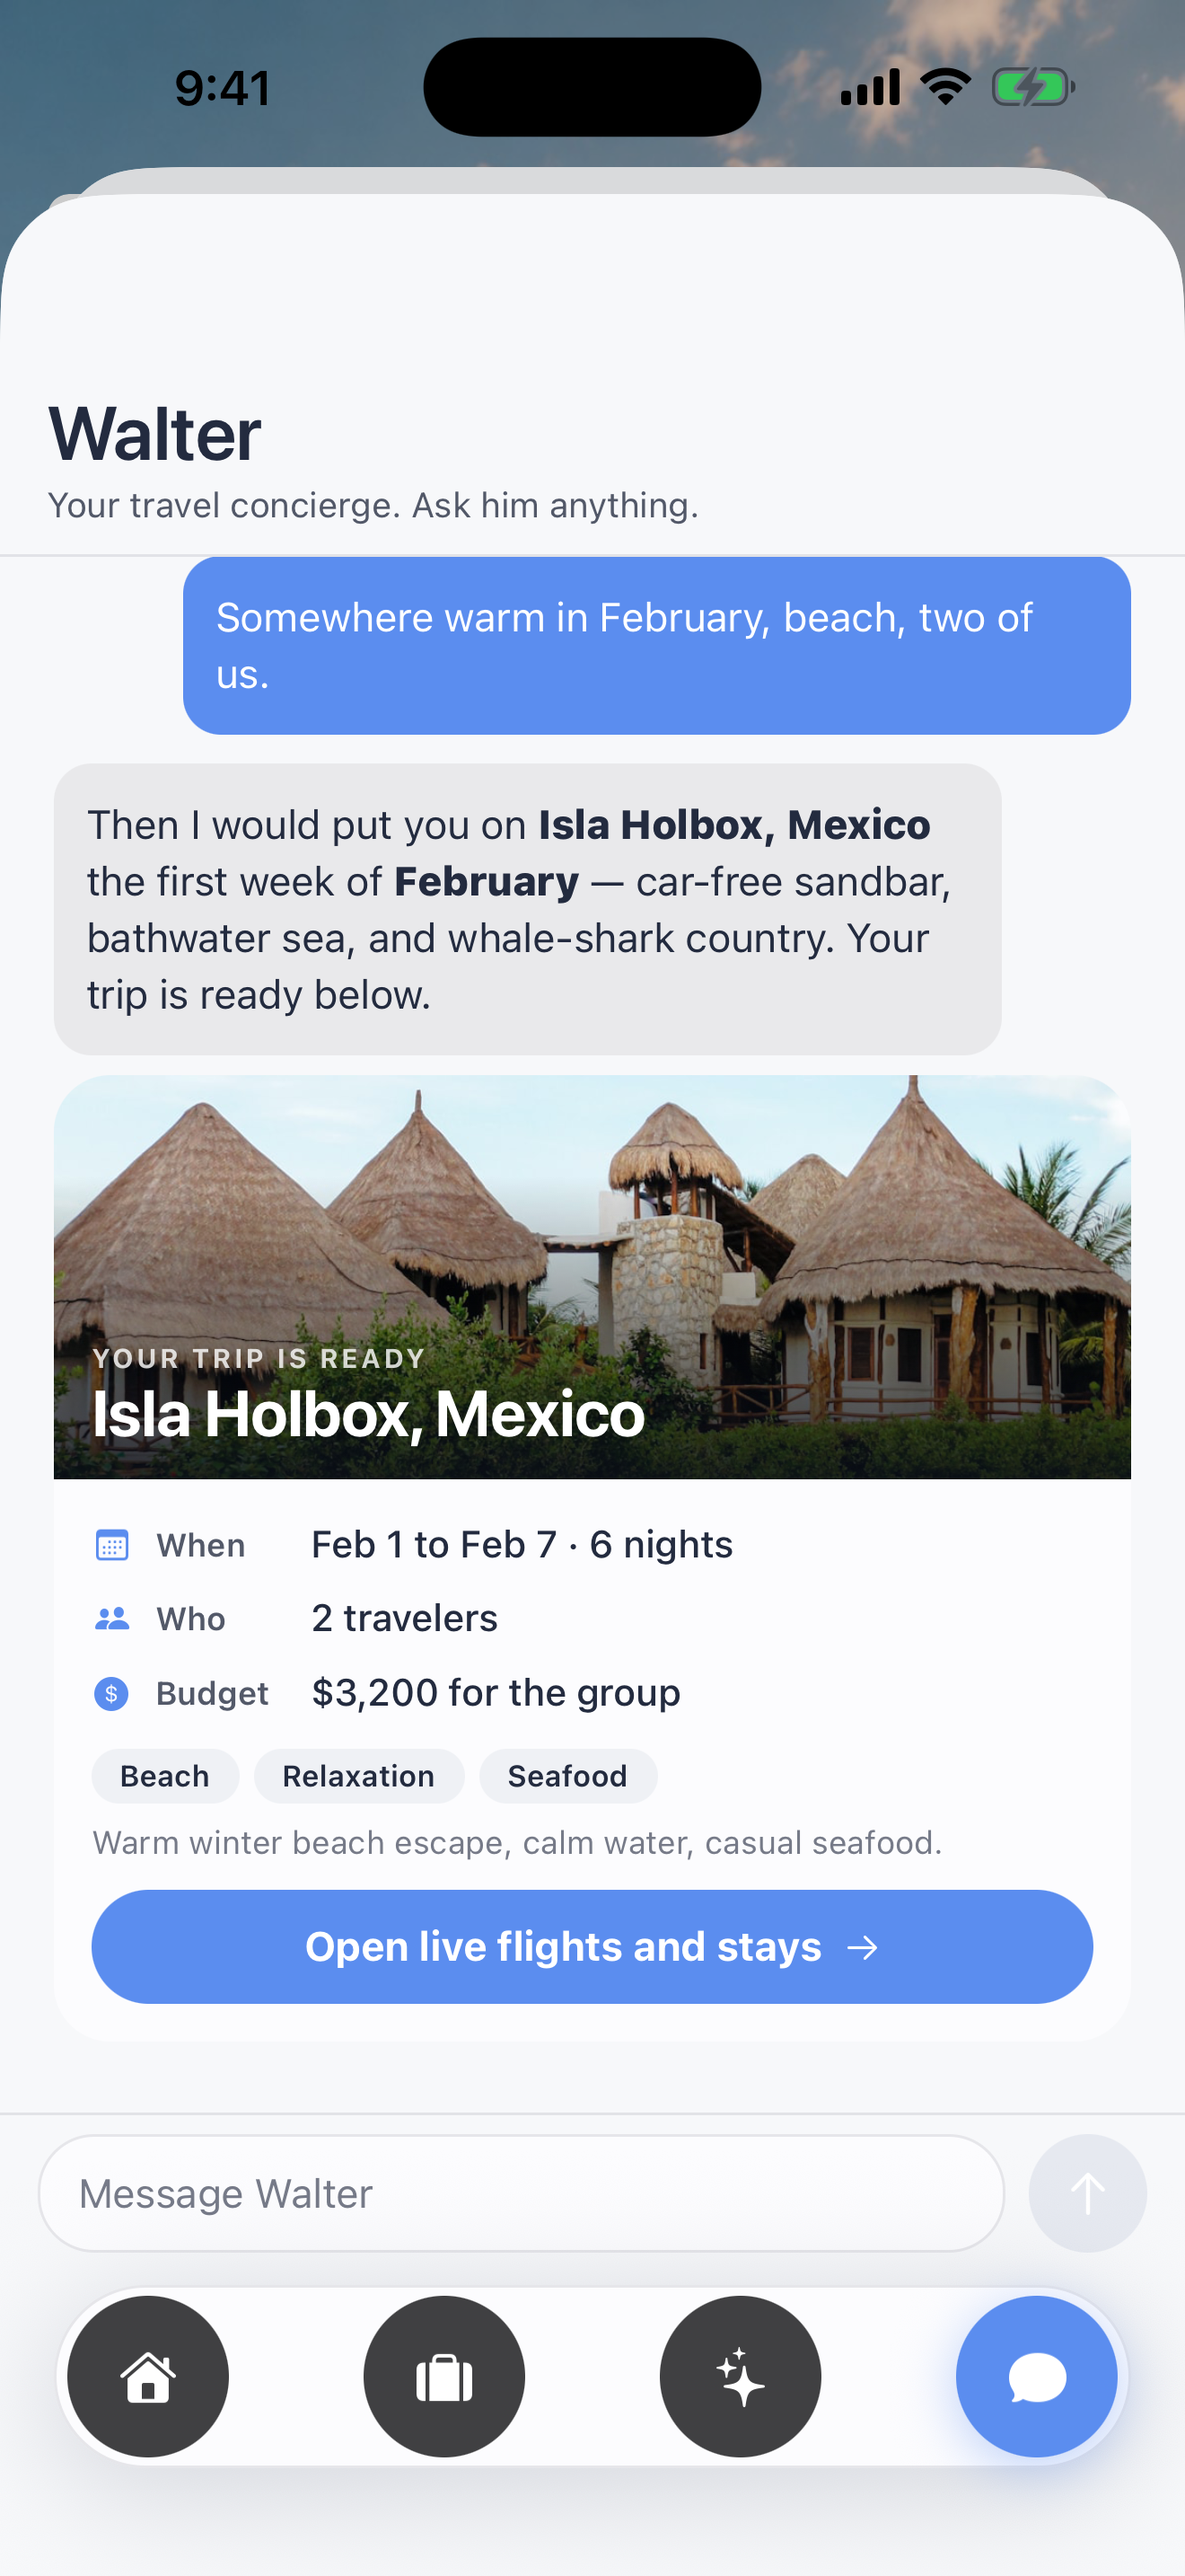
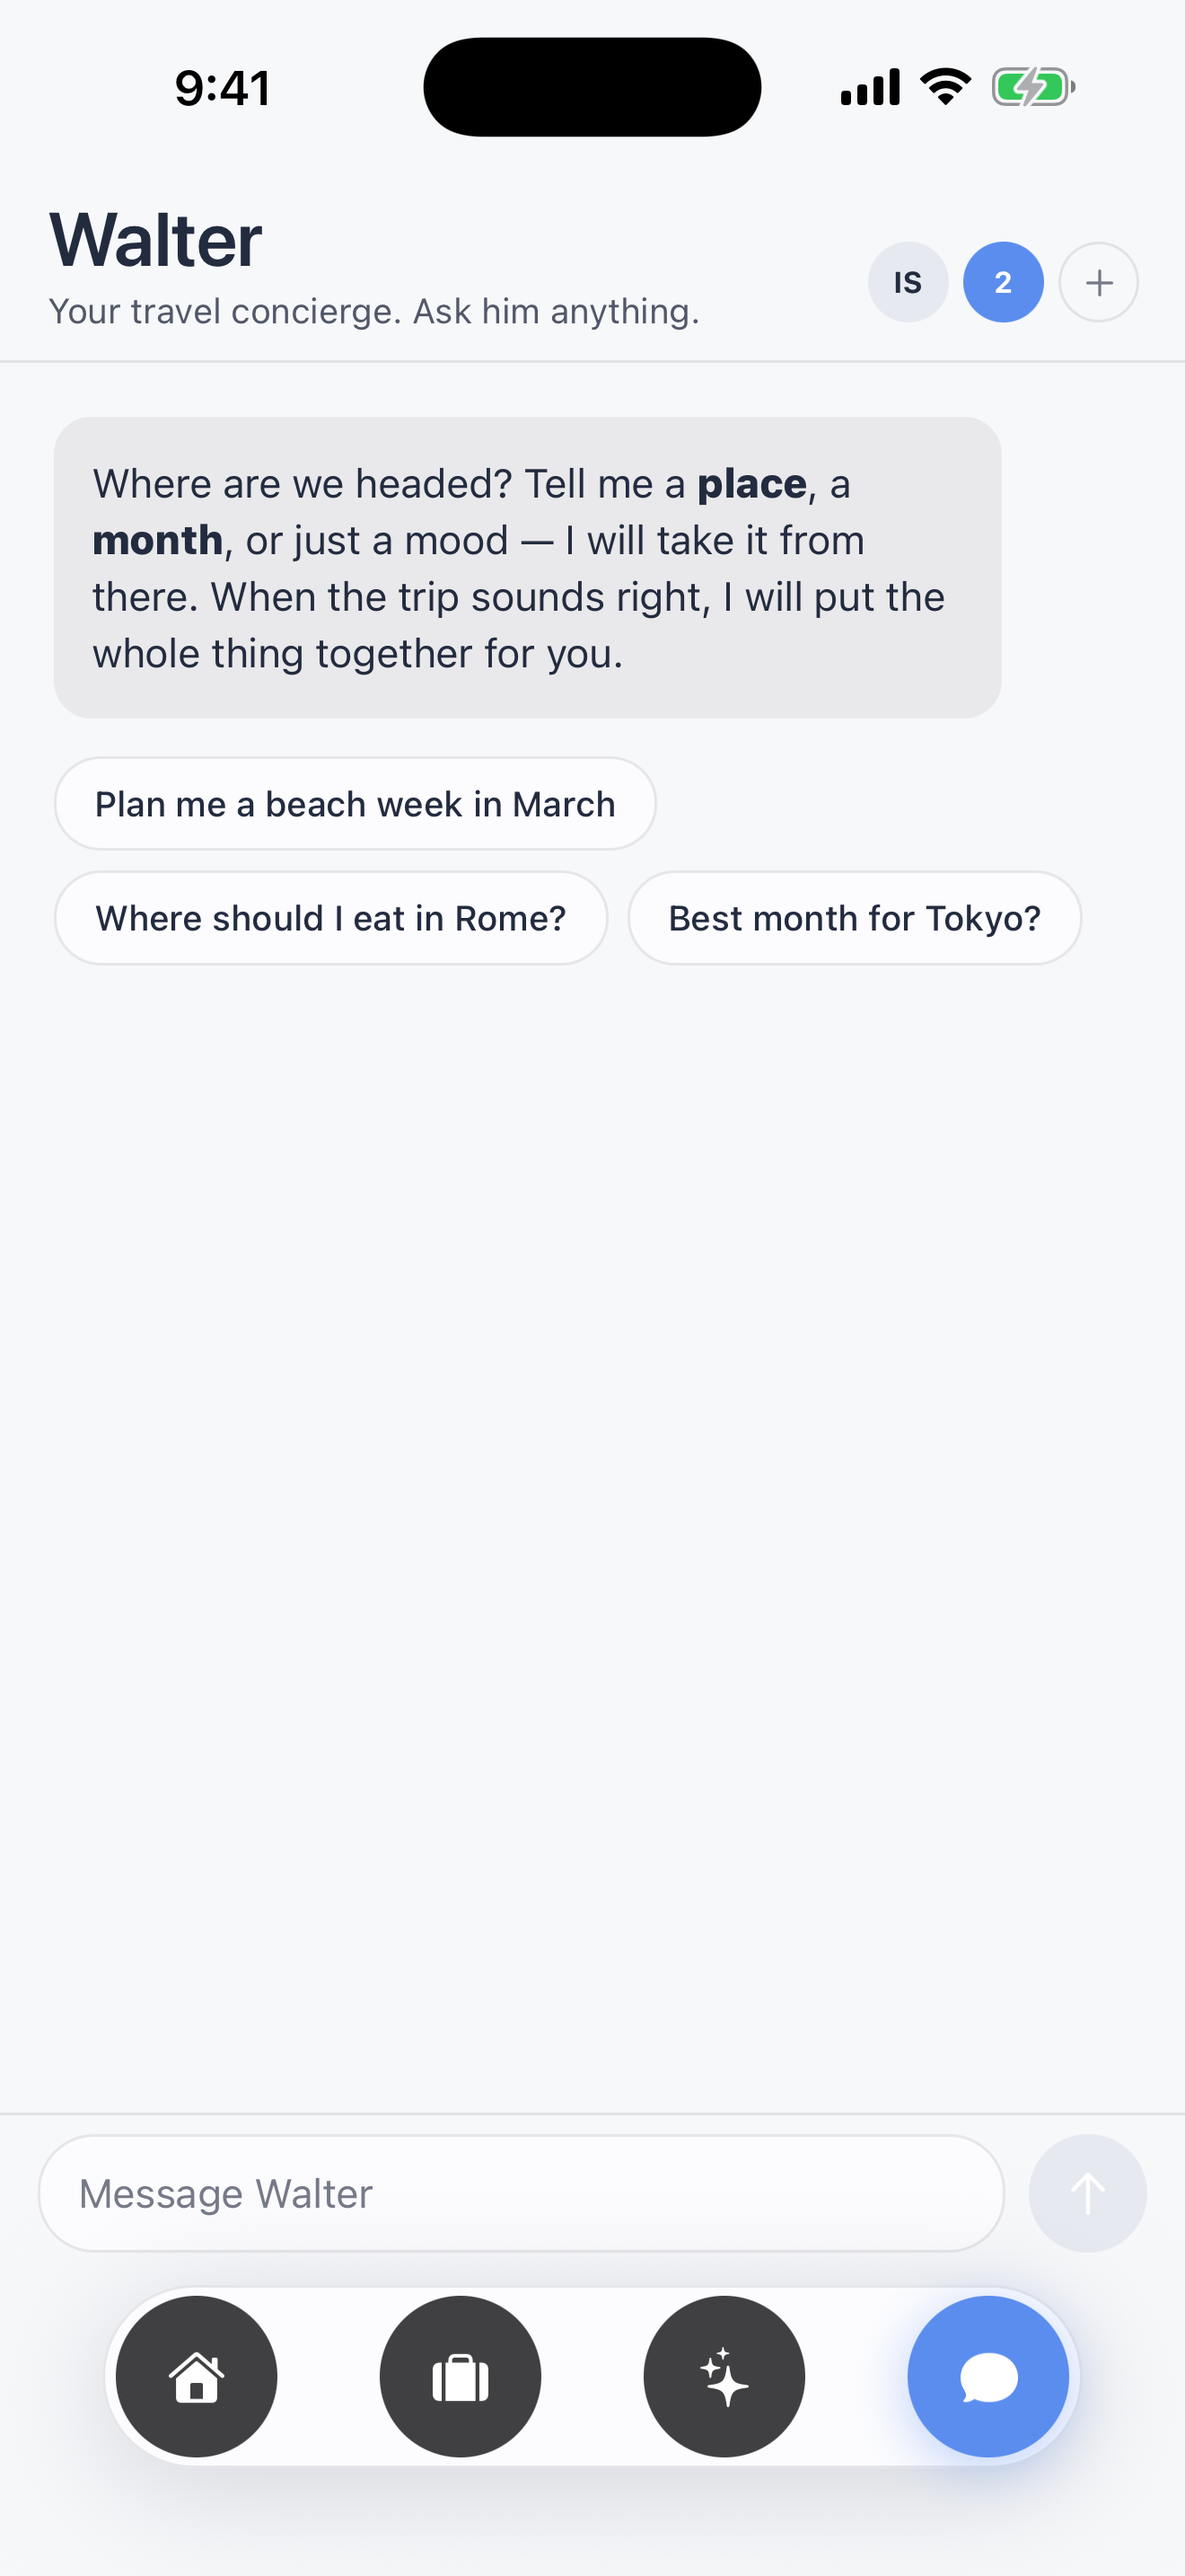
ASC listing: build 7, chat in description and review notes, final screenshots

diff --git a/docs/asc_listing.md b/docs/asc_listing.md
@@ -18,10 +18,12 @@ Paste-ready; edit freely. Companion: app_plan.md Phase 4.
 Walter takes you from "I should go somewhere" to "I'm booked" in one
 sitting.
 
-Tell Walter where you're headed — or let him make the case for
-somewhere new. He assembles the whole trip: real flights, real places
-to stay, and the things actually worth doing while you're there. One
-cart instead of eight open tabs.
+Tell Walter where you're headed — or just talk to him. Chat with
+Walter like you would a well-traveled friend: ask where to eat in
+Rome, when to see Tokyo, or say "book me a beach week in February"
+and watch him hand you the finished trip. He assembles the whole
+thing: real flights, real places to stay, and the things actually
+worth doing while you're there. One cart instead of eight open tabs.
 
 When the trip looks right, book it. Every item hands you off to the
 provider's own site — the airline, the hotel, the box office — so you
@@ -75,6 +77,13 @@ Required: 6.9" iPhone set (1320 × 2868). iPad not needed
 > system in this version — no reviewer credentials are needed. Trips
 > and carts are stored on the device.
 >
+> The Chat tab is an AI travel-planning assistant powered by a large
+> language model (Anthropic's Claude) via our own backend. It is
+> scoped to travel planning, uses the provider's safety systems, and
+> can only act on the user's own on-device trip data. Chat messages
+> are processed to generate the reply and are not stored server-side
+> or linked to any identity.
+>
 > The "Book on …" buttons are hand-off links that open the travel
 > provider's own website (airline, hotel, ticket seller) in a browser
 > sheet. Walter sells nothing in-app; bookings for physical travel
@@ -96,10 +105,12 @@ Required: 6.9" iPhone set (1320 × 2868). iPad not needed
 
 ## FINAL SUBMISSION CHECKLIST (2026-08-20 — everything below is Trey's)
 
-State: **build #4 (v1.0.0) uploaded and processing** — includes the
-group-price fix (7f3707f) that builds #2/#3 lack. Five screenshots at
-`docs/screenshots/01..05.png` (1320x2868, journey order: Home, Plan,
-Results, Trip, Checkout — real captures, live data).
+State: **build #7 (v1.0.0) is the submission candidate** — it carries
+the Walter chat concierge, the circle tab bar, the hourly pick,
+Trey's full punch list, and the group-price fix. Builds #2-#5 sit in
+TestFlight superseded; ignore them. Six screenshots at
+`docs/screenshots/01..06.png` (1320x2868: Home, Chat, Plan, Results,
+Trip, Checkout — real captures, live data).
 
 At https://appstoreconnect.apple.com/apps/6790163527 do, in order:
 
@@ -114,10 +125,11 @@ At https://appstoreconnect.apple.com/apps/6790163527 do, in order:
    unreachable in v1; no tracking, no ATT). Do NOT declare email or
    location.
 4. **1.0 version page:** paste description + keywords + URLs from the
-   sections above; upload the five screenshots from `docs/screenshots/`
-   in order; select **build 4** once processing finishes (email from
+   sections above; upload the six screenshots from `docs/screenshots/`
+   in order; select **build 7** once processing finishes (email from
    Apple, ~10 min); paste the App Review notes from this doc into
    Review Information; leave the sign-in fields OFF (no account needed).
-5. **Quick device QA first (recommended):** install build 4 from
-   TestFlight, run Home -> Plan -> Results -> Trip -> Checkout once.
+5. **Quick device QA first (recommended):** install build 7 from
+   TestFlight, run Home -> Chat (ask for a trip) -> Results -> Trip ->
+   Checkout once.
 6. Press **Submit for Review**.
